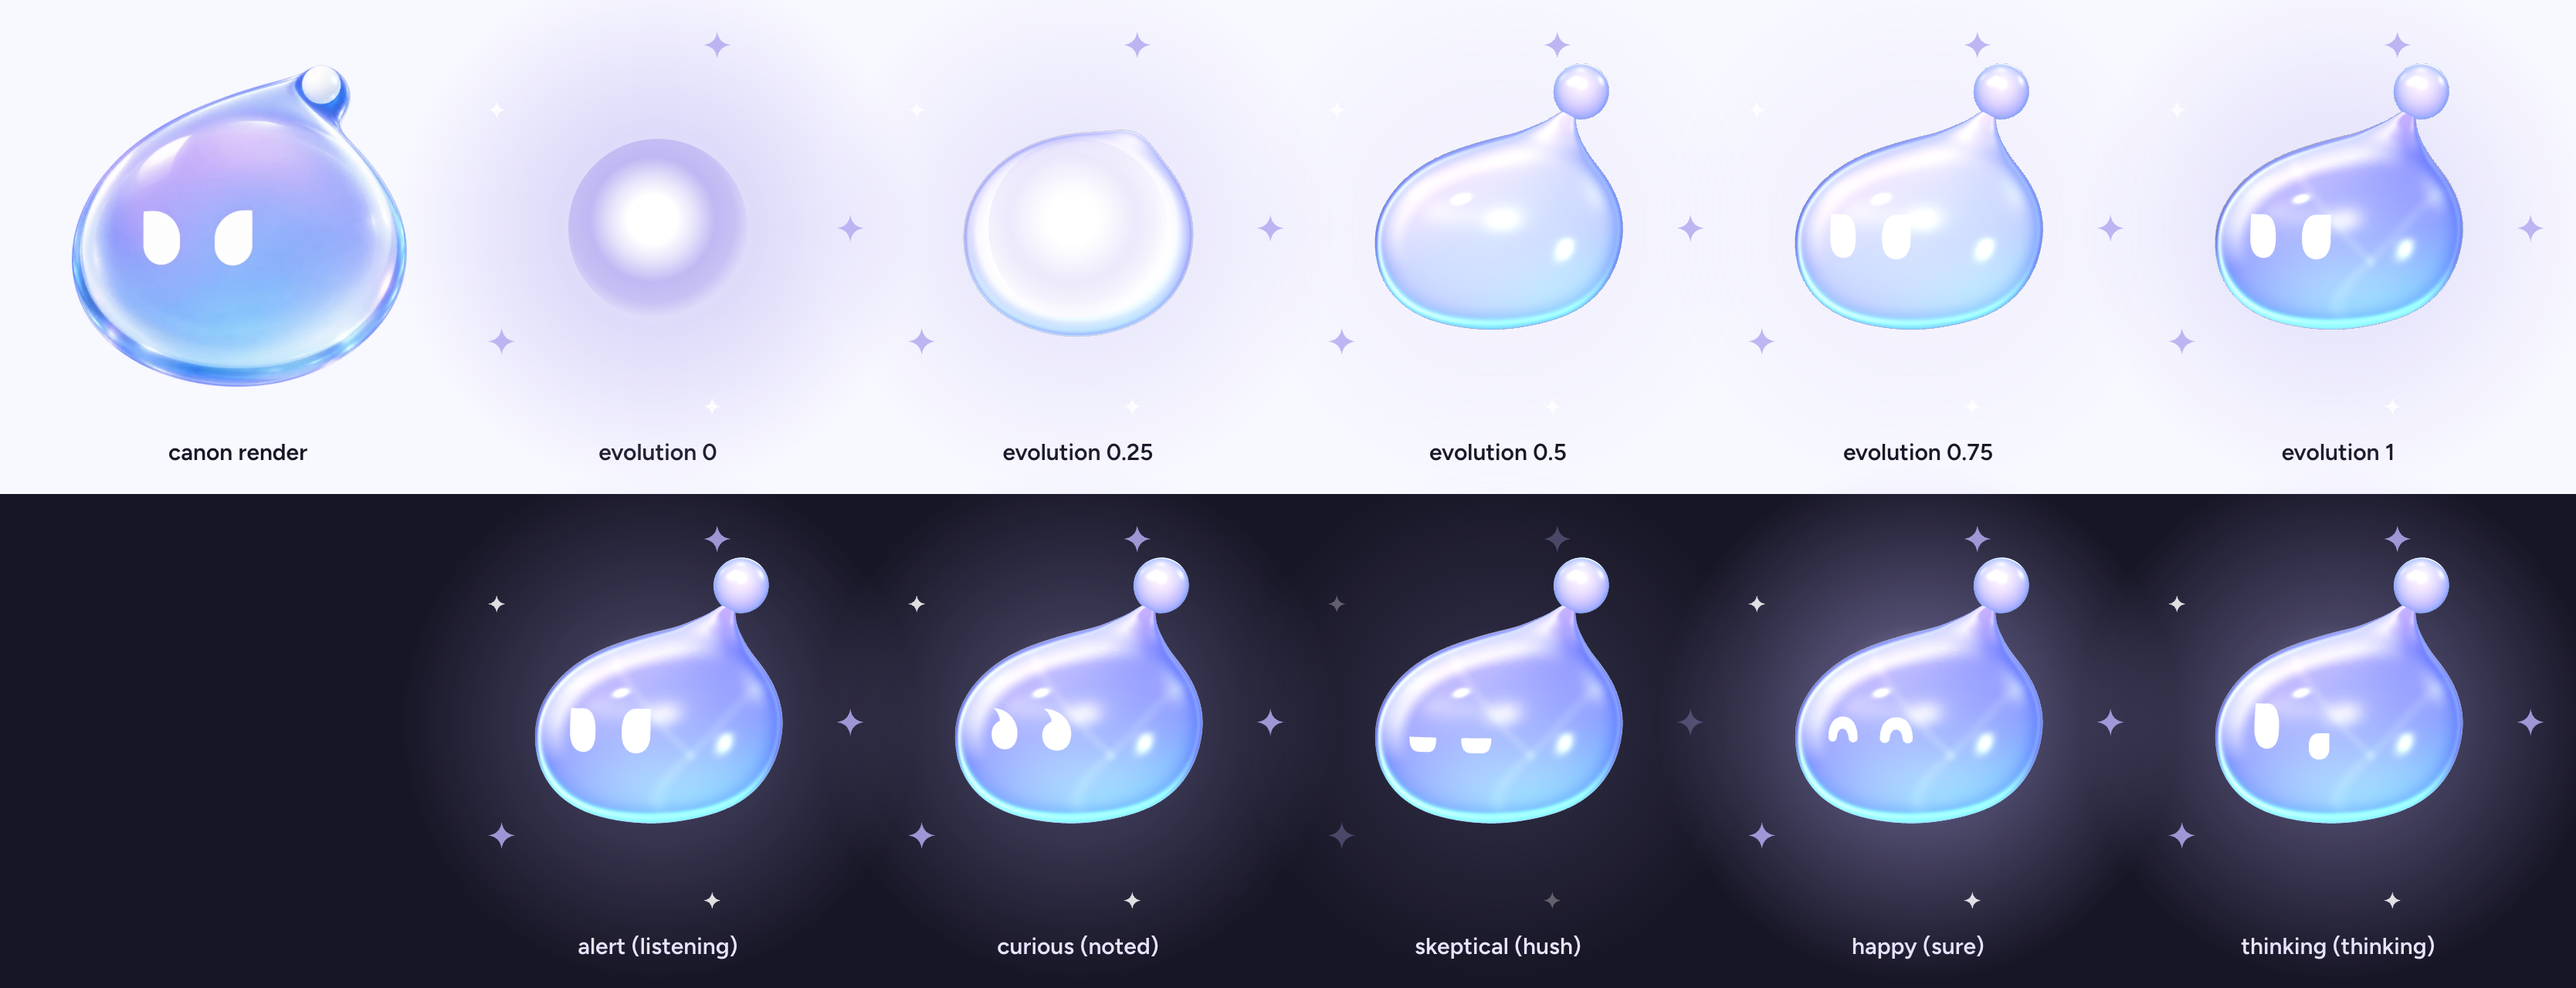
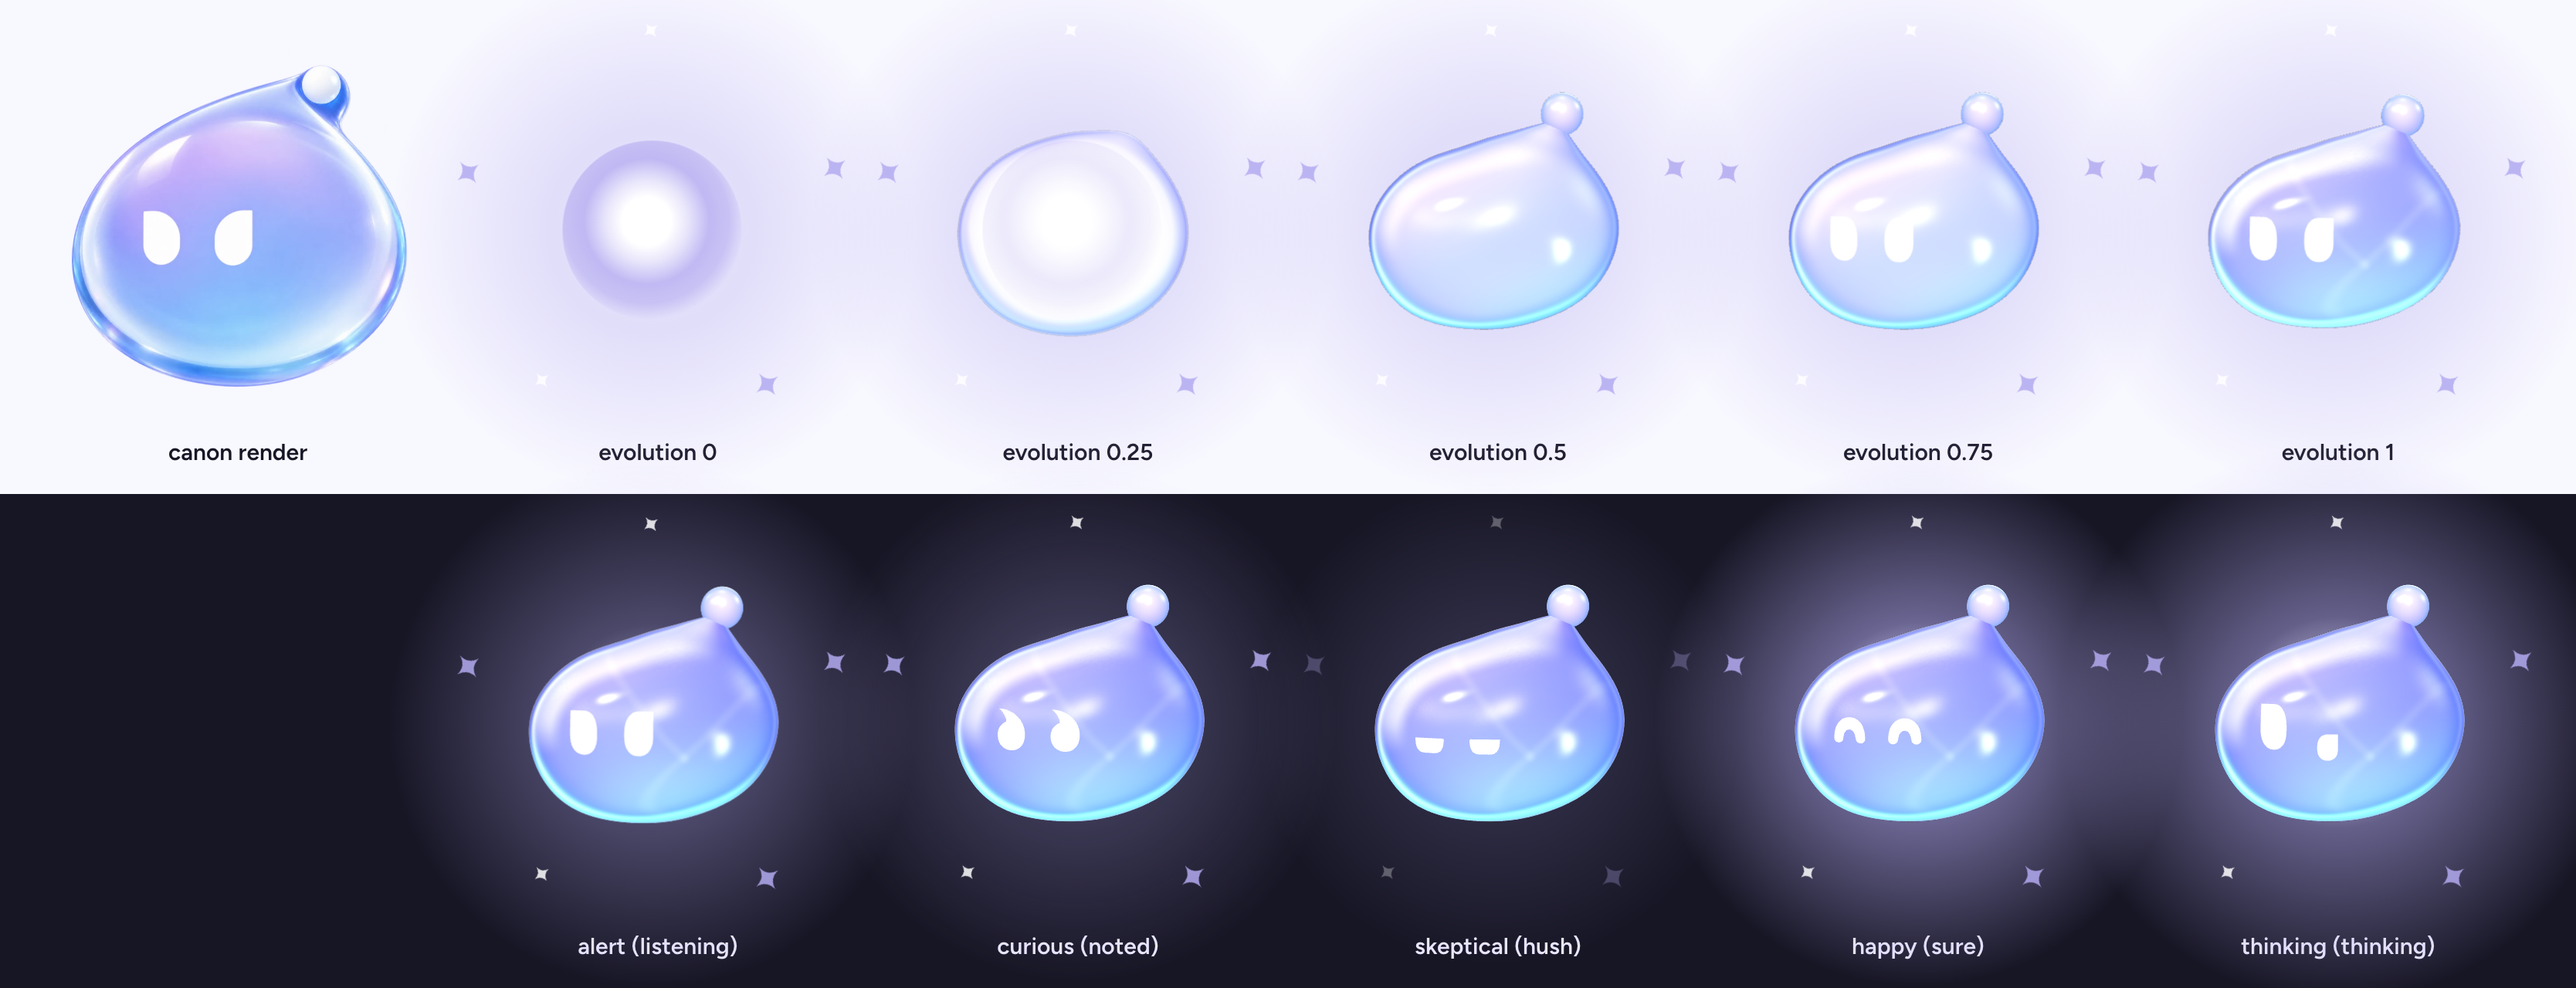
G5 Genii: smaller bead hugging the tip with a slight pinch, stronger blue rim
- Bead radius 0.22 to 0.17 (about 17% of body width), sunk into the tip instead of perched on a stalk
- Tip pull and neck pinch reduced so the bead sits low, tilted to the upper right, like the canon render
- Stage sheet regenerated (sheet=1&size=l)

diff --git a/quiz64/src/genii/evolution.js b/quiz64/src/genii/evolution.js
@@ -79,11 +79,11 @@ export const BODY = Object.freeze({
   tilt: 0.1, // radians, lifts the right shoulder
   tip: Object.freeze(normalize([0.5, 0.866, 0])),
   tipA: 0.1, tipK1: 6,
-  tipB: 0.15, tipK2: 40,
-  neckA: 0.11, neckK: 300, // a thin pulled neck that carries the bead
+  tipB: 0.1, tipK2: 40,
+  neckA: 0.035, neckK: 300, // a slight pinch under the bead, never a stalk
   base: 0.035, // the lower half spreads a little, like a settled jelly
   center: Object.freeze([0, -0.06, 0]),
-  bead: 0.22, // bead radius
+  bead: 0.17, // bead radius: about 17% of body width, small and hugging the tip like the canon
 });
 
 function normalize(v) {
@@ -110,7 +110,7 @@ export function radiusAt(d, drop, neck = drop) {
 /** Where the bead sits (body space) for a teardrop weight. */
 export function beadCenter(drop, neck = drop) {
   const r = radiusAt(BODY.tip, drop, neck);
-  const out = r + BODY.bead * 0.72;
+  const out = r + BODY.bead * 0.42; // sunk into the tip so the bead hugs it
   return [BODY.tip[0] * out, BODY.tip[1] * out, BODY.tip[2] * out];
 }
 

diff --git a/quiz64/src/genii/scene.js b/quiz64/src/genii/scene.js
@@ -307,7 +307,7 @@ function pearlMaterial(envMap) {
       float pF = clamp(dot(normal, normalize(vViewPosition)), 0.0, 1.0);
       vec3 pR = reflect(-normalize(vViewPosition), normal);
       totalEmissiveRadiance += vec3(0.86, 0.86, 0.98) * pow(pF, 2.0) * 0.32 * (0.75 + 0.25 * smoothstep(-0.6, 0.6, dot(normal, normalize(vec3(-0.5, 0.6, 0.6)))));
-      totalEmissiveRadiance += vec3(0.05, 0.25, 1.0) * pow(1.0 - pF, 1.5) * 1.1;
+      totalEmissiveRadiance += vec3(0.05, 0.25, 1.0) * pow(1.0 - pF, 1.3) * 1.5;
       diffuseColor.rgb *= mix(vec3(1.0), vec3(0.35, 0.5, 1.0), pow(1.0 - pF, 1.2));
       totalEmissiveRadiance += vec3(1.0) * smoothstep(0.93, 0.96, max(dot(pR, normalize(vec3(-0.45, 0.6, 0.66))), 0.0)) * 3.0;
       totalEmissiveRadiance += vec3(1.0) * pow(1.0 - pF, 10.0) * 0.8;
